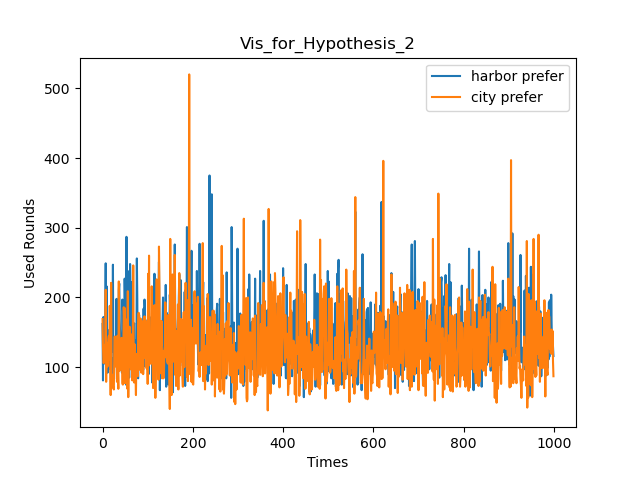
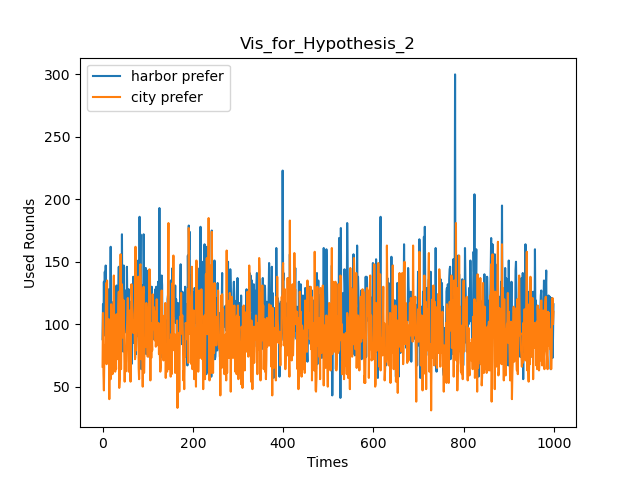
Readme file

diff --git a/Catan_basic.py b/Catan_basic.py
@@ -792,7 +792,7 @@ def get_resource(player: Player, terrain_dict: dict) -> None:
     else:  # dice_num == 7
         # if the dice rolls 7, player must discard resources if the resources number larger than 7
         # hypothesis: player always discard the most resources type
-        discard_num = sum(player.resources_list) // 2
+        discard_num = sum(player.resources_list) // 2 if sum(player.resources_list) > 7 else 0
         while discard_num > 0:
             player.discard_one_resource()
             discard_num -= 1
@@ -1051,7 +1051,7 @@ if __name__ == '__main__':
     board_save(point_terrain_dict, idx_terrain_dict, 'data/output/border.csv')
 
     ## simulation part
-    simulation_times, max_round, vp, epoch = 1000, 1000, 8, 50
+    simulation_times, max_round, vp, epoch = 1000, 300, 8, 50
     val1 = []
     val2 = []
     val3 = []
@@ -1083,6 +1083,8 @@ if __name__ == '__main__':
         val1.append(recoder1.used_round)
         val2.append(recoder2.used_round)
         val3.append(recoder3.used_round)
+
+    print(f"Avg for val1: {sum(val1) / len(val1)}, val2: {sum(val2) / len(val2)}, val3: {sum(val3) / len(val3)}")
 
     vis_two_round(val1, val2, "settlement prefer", "city prefer", 1, simulation_times=simulation_times)
     vis_two_round(val3, val2, "harbor prefer", "city prefer", 2, simulation_times=simulation_times)

diff --git a/README.md b/README.md
@@ -152,6 +152,14 @@ class ResRecoder:
 
 # Monte Carlo Simulation
 
+## Special for this simulation
+
+1. Though we compare player with different strategy, they will not compete with each other. All players have a private border.
+2. Though player still need to discard resources if they roll 7, no terrain were detained by robber. Robber will only stay in dessert.
+3. All harbor in this simulation are universal harbors(3 : 1).
+4. All players in this simulation would not change their strategy until end of game.
+5. We do not have development card in this simulation. Besides, the longest road and the longest army would not implement in this simulation.
+
 ## Random Variables:
 
 Due to the real game rules and workload consideration, I listed all possible random variables that might be used in this final project.
@@ -175,14 +183,33 @@ Random Variables 3: The chance of earning resource of each resource’s bricks(N
 - Player would only choose the point has the highest probability as the default point
 - Player would only build roads to the neighbor point has the highest probability unless on harbor prefer action
 
+## Hypothesis
+
+We simulate 1000 times for each hypothesis. Everytime a simulation ends, the used round timer would output and stored in a list. Each hypothesis would output 2 list stores all round for two different situations. Each simulation would use a new board.
+
 ### Hypothesis 1
 
 `Assume upgrading a city can help get the required vp points faster than case 2 building a new settlement. `
+The hypothesis compares two strategy: upgrading a city prefer and build a new settlement prefer. From the output, the resulting average used rounds of settlement prefer is 124.916, the resulting average used rounds of city prefer is 93.127.
+From the histogram, we can see that it is more rewarding to adopt city prefer methods rather than settlement.
+Thus, this hypothesis is valid.
+![Image text](data/output/Statistic_Vis_for_Hypothesis_1.png)
 
 ### Hypothesis 2
 
 `Assume getting a particular port can help get the required vp points faster than upgrading a ctiy which could help get more resources.`
+The hypothesis compares two strategy: upgrading a city prefer and build a new settlement prefer. From the output, the resulting average used rounds of harbor prefer is 106.492, the resulting average used rounds of city prefer is 93.127.
+From the histogram, we can see that it is more rewarding to adopt city prefer methods rather than settlement.
+Thus, this hypothesis is valid.
+![Image text](data/output/Statistic_Vis_for_Hypothesis_2.png)
 
-# Phrase 2:
+## Citations:
 
-# Phrase 3:
+1. Catan Photo:
+Catan Universe - Changelog 2.3.2 - Steam News. 19 Apr. 2023, store.steampowered.com/news/app/544730/view/5978007465995605824?l=english.
+2. Catan Introduction Wiki:
+Catan. “Catan.” Wikipedia, 11 Apr. 2023, en.wikipedia.org/wiki/Catan.
+3. Catan rules:
+“Game Rules.” CATAN, www.catan.com/understand-catan/game-rules.
+4. BFS Tree Idea:
+Wikipedia contributors. “Breadth-first Search.” Wikipedia, 27 Feb. 2023, en.wikipedia.org/wiki/Breadth-first_search.
